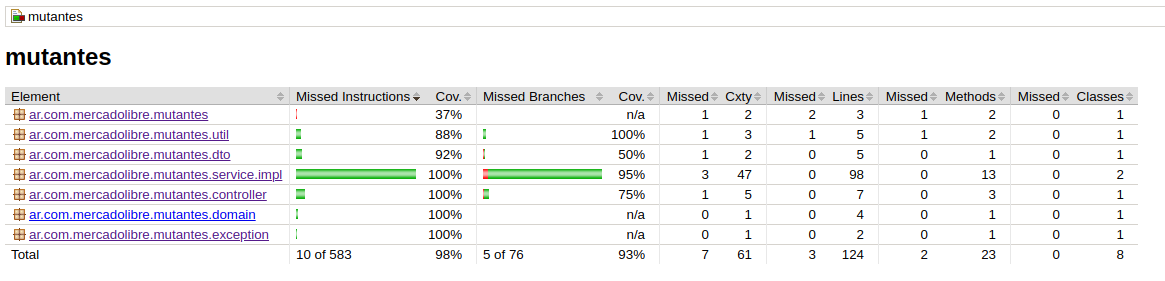
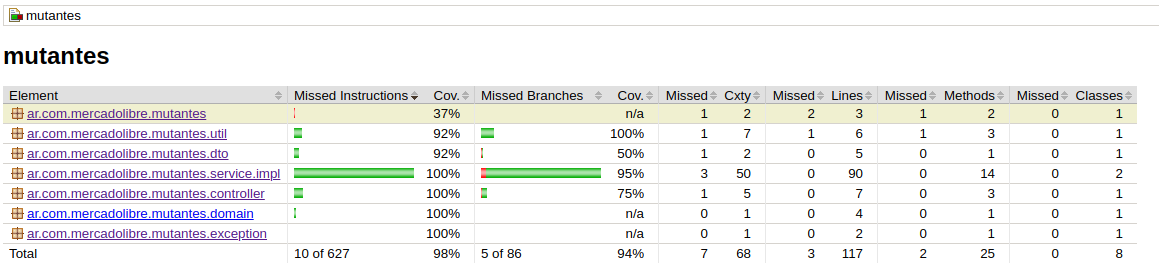
Update Test-Coverage-Report and README.md

Changed region(s): [[0.0, 0.3177, 0.994, 0.9531], [0.0, 0.0, 1.0, 0.1155], [0.0, 0.1733, 0.0932, 0.231]]

diff --git a/README.md b/README.md
@@ -42,7 +42,7 @@ El mismo se aloja en el siguiente directorio:
 ```
 $ cd target/site/jacoco-merged-test-coverage-report/index.html
 ```
-![Coverage](https://i.imgur.com/CyHgBbp.png)
+![Coverage](https://i.imgur.com/fPfhgw5.png)
 
 ## Deploy de la API
 
